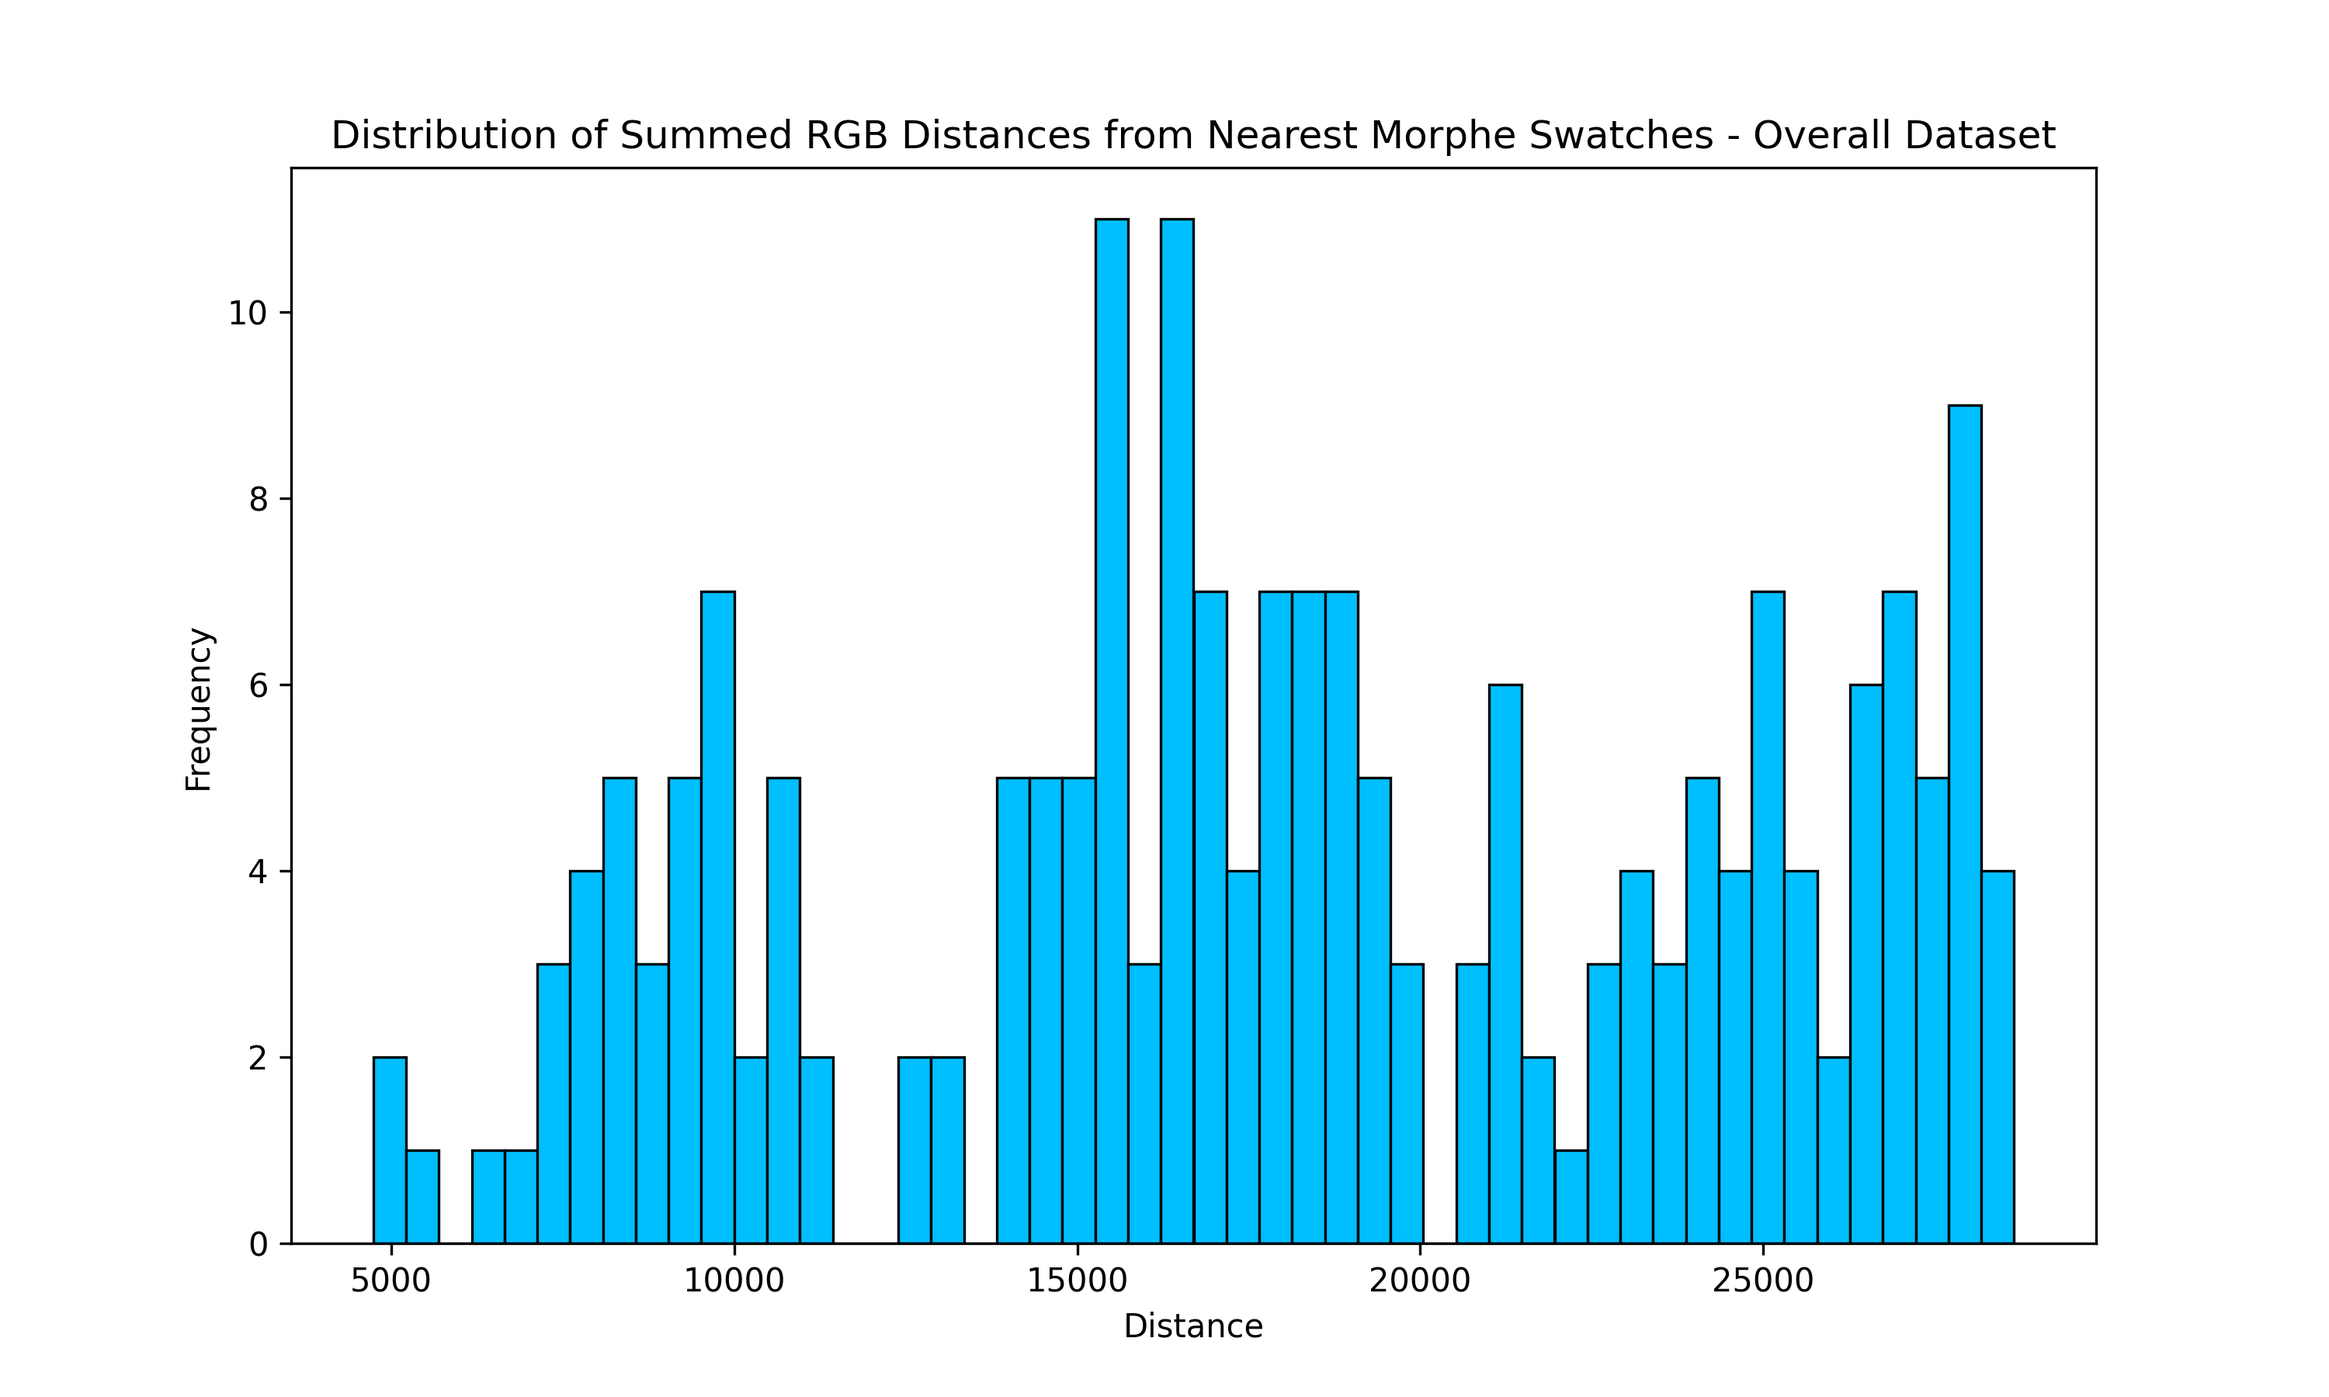
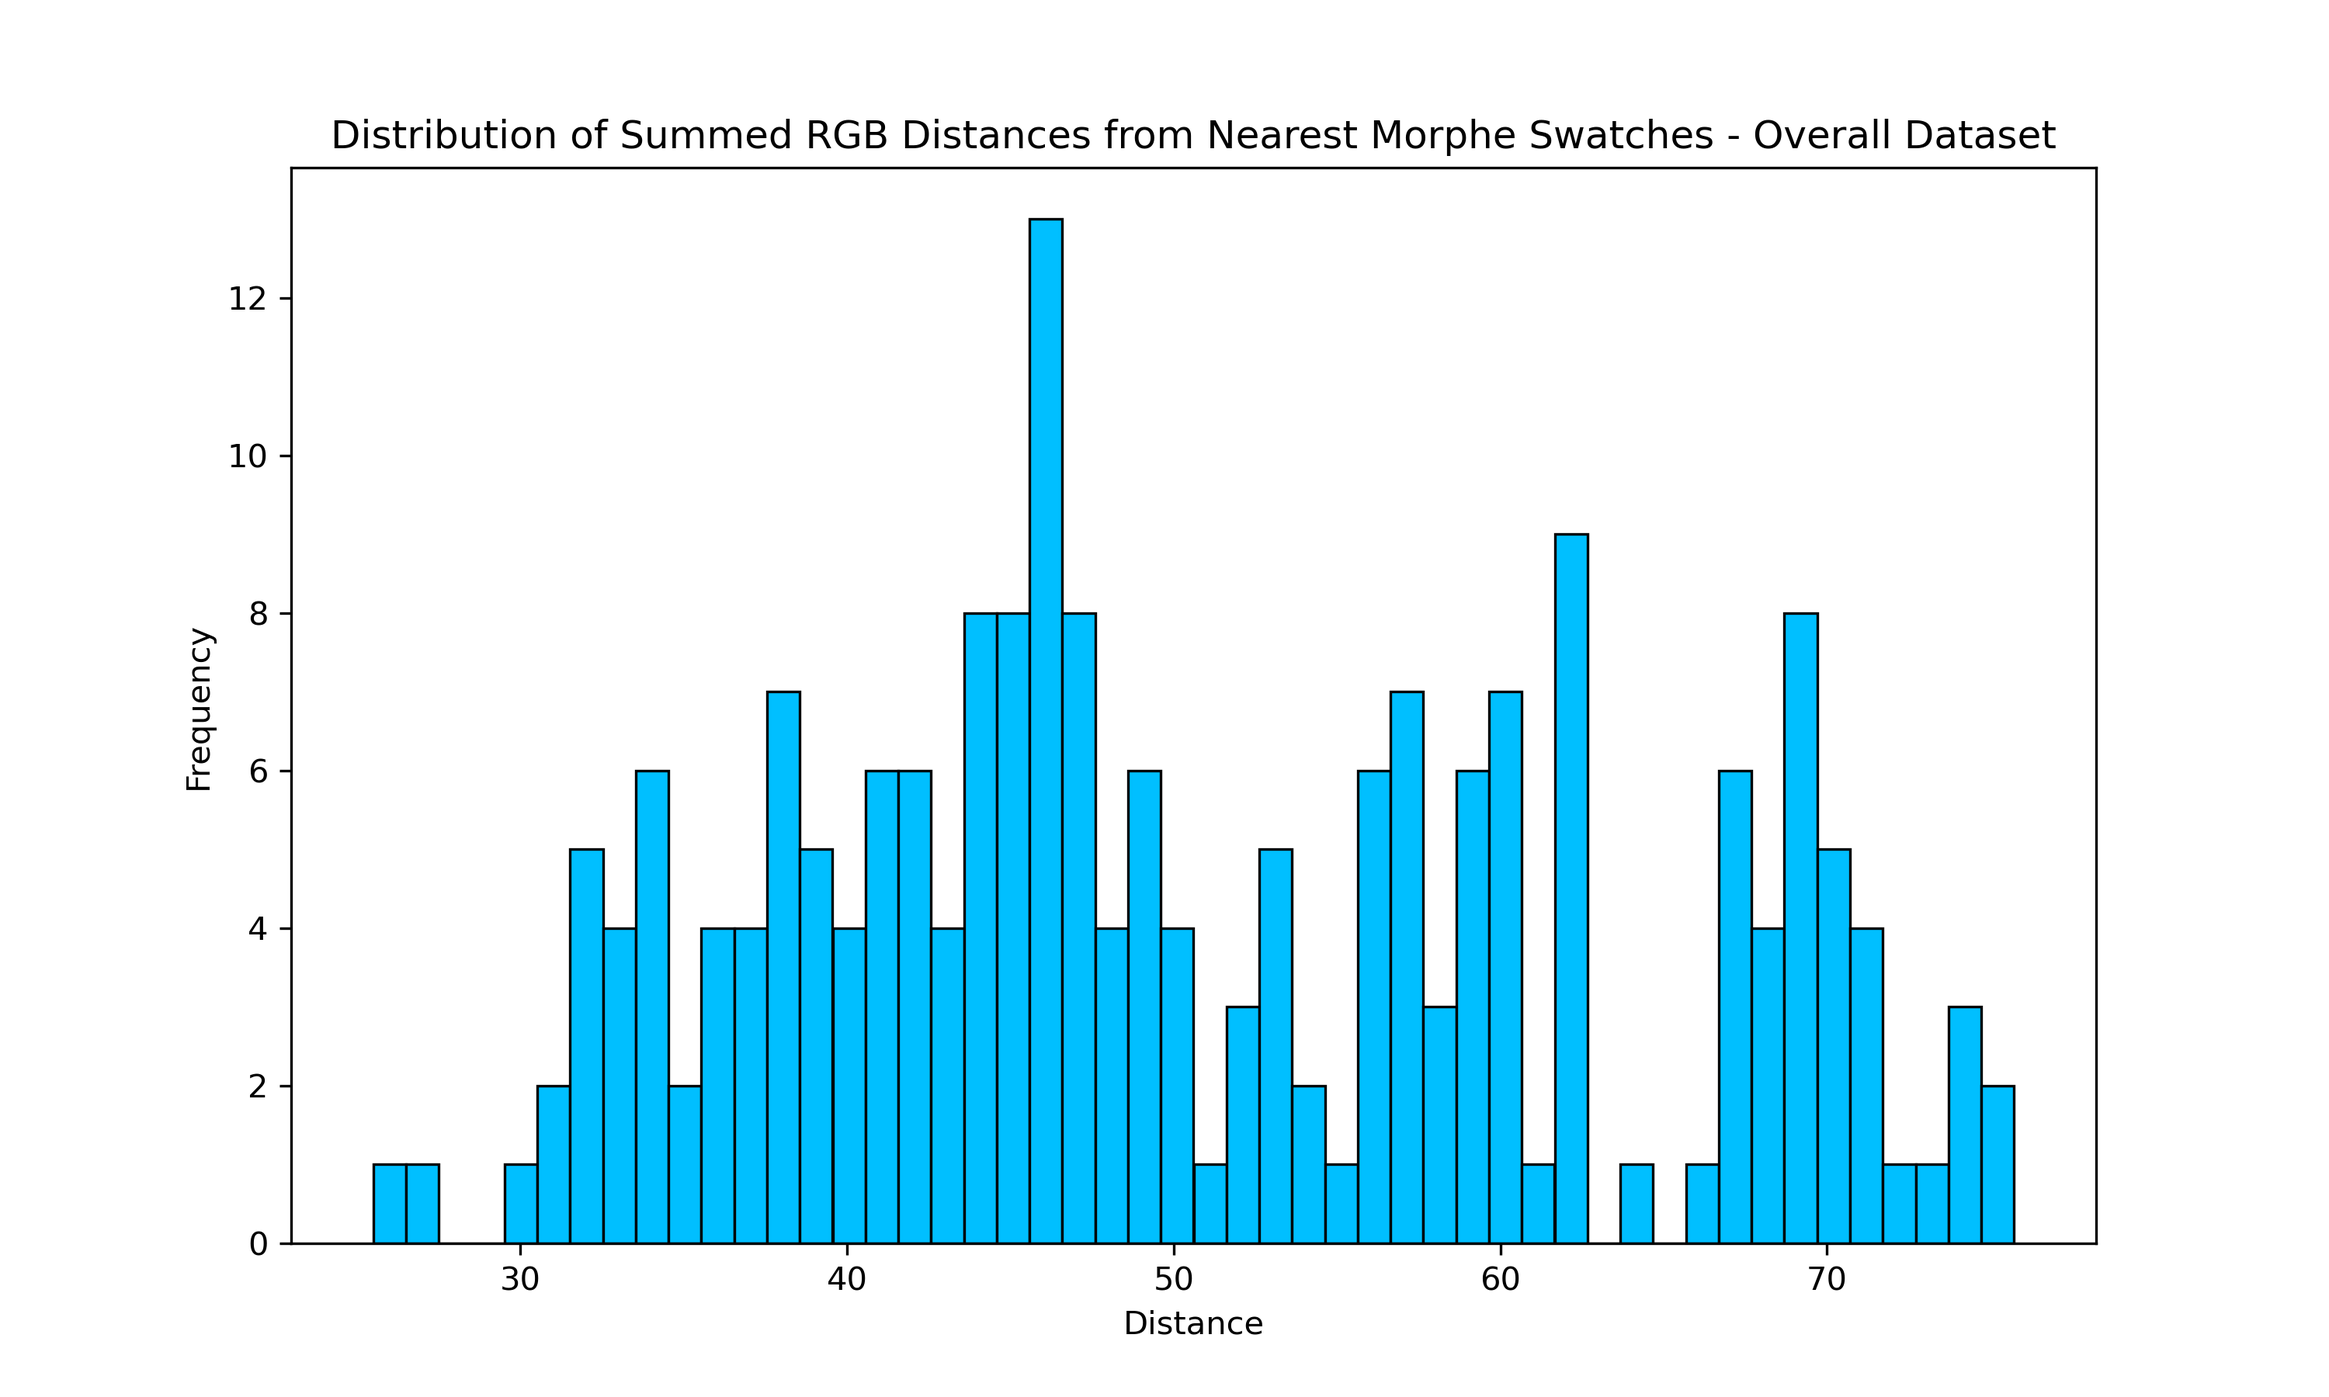
Updated code

diff --git a/fairness.py b/fairness.py
@@ -1,4 +1,3 @@
-import aif360.sklearn.metrics as metrics
 import pandas as pd
 import matplotlib.pyplot as plt
 import seaborn as sns
@@ -7,7 +6,7 @@ import random
 
 random.seed(39)
 
-def get_agreement(gtpath: str, morphepath: str, clusterpath: str) -> tuple[pd.DataFrame, pd.DataFrame, pd.DataFrame]:
+def get_agreement(gtpath: str, morphepath: str, clusterpath: str) -> tuple[pd.DataFrame, pd.DataFrame]:
     gt = pd.read_csv(gtpath).loc[:, ['Image Path', 'ground_truth1', 'ground_truth2', 'ground_truth3', 
                                      'ground_truth4', 'ground_truth5']]
     morphe = pd.read_csv(morphepath).loc[:, ['Image Path', 'Morphe1', 'Morphe2', 'Morphe3', 'Morphe4', 'Morphe5']]
@@ -20,22 +19,22 @@ def get_agreement(gtpath: str, morphepath: str, clusterpath: str) -> tuple[pd.Da
                                                                        x['Morphe2'], x['Morphe3'], x['Morphe4'], 
                                                                        x['Morphe5']]))), axis=1)
     gt_morphe.loc[:, 'accurate'] = gt_morphe.apply(lambda x: x['Agreement'] >= 3, axis=1).astype(int)
-    gt_morphe.loc[:, 'Skin Tone Category'] = gt_morphe.apply(lambda x: skintone_map[stats.mode(set([x['ground_truth1'].split('_')[0],
+    gt_morphe.loc[:, 'Skin Tone Category'] = gt_morphe.apply(lambda x: skintone_map[stats.mode([x['ground_truth1'].split('_')[0],
                                                                                        x['ground_truth2'].split('_')[0],
                                                                                        x['ground_truth3'].split('_')[0],
                                                                                        x['ground_truth4'].split('_')[0],
-                                                                                       x['ground_truth5'].split('_')[0]]))], axis=1)
+                                                                                       x['ground_truth5'].split('_')[0]])], axis=1)
     gt_cluster = gt.merge(cluster, on='Image Path', how='inner')
     gt_cluster.loc[:, 'Agreement'] = gt_cluster.apply(lambda x: len(set([x['ground_truth1'], x['ground_truth2'], 
                                                                          x['ground_truth3'], x['ground_truth4'], 
                                                                          x['ground_truth5']]).intersection(set([x['RJ1'], 
                                                                          x['RJ2'], x['RJ3'], x['RJ4'], x['RJ5']]))), axis=1)
     gt_cluster.loc[:, 'accurate'] = gt_cluster.apply(lambda x: x['Agreement'] >= 3, axis=1).astype(int)
-    gt_cluster.loc[:, 'Skin Tone Category'] = gt_cluster.apply(lambda x: skintone_map[stats.mode(set([x['ground_truth1'].split('_')[0], 
+    gt_cluster.loc[:, 'Skin Tone Category'] = gt_cluster.apply(lambda x: skintone_map[stats.mode([x['ground_truth1'].split('_')[0], 
                                                                                        x['ground_truth2'].split('_')[0],
                                                                                        x['ground_truth3'].split('_')[0],
                                                                                        x['ground_truth4'].split('_')[0],
-                                                                                       x['ground_truth5'].split('_')[0]]))], axis=1)
+                                                                                       x['ground_truth5'].split('_')[0]])], axis=1)
     grouped_morphe = gt_morphe.groupby('Skin Tone Category').agg({'accurate': 'mean'}).reset_index()
     grouped_cluster = gt_cluster.groupby('Skin Tone Category').agg({'accurate': 'mean'}).reset_index()
     return grouped_morphe, grouped_cluster
@@ -60,7 +59,7 @@ def plot_agreement(gt_morphe: pd.DataFrame, gt_cluster: pd.DataFrame) -> None:
     plt.savefig('./plots/agreement_cluster.png')
     plt.show()
     
-def fairness(grouped_morphe: pd.DataFrame, grouped_cluster: pd.DataFrame) -> tuple[float, float, float]:
+def fairness(grouped_morphe: pd.DataFrame, grouped_cluster: pd.DataFrame) -> None:
     parity_light_to_medium_morphe = abs(grouped_morphe.loc[grouped_morphe['Skin Tone Category'] == 'light', 'accurate'].values[0] -
                                    grouped_morphe.loc[grouped_morphe['Skin Tone Category'] == 'medium', 'accurate'].values[0])
     parity_medium_to_dark_morphe = abs(grouped_morphe.loc[grouped_morphe['Skin Tone Category'] == 'medium', 'accurate'].values[0] -
@@ -82,56 +81,56 @@ def fairness(grouped_morphe: pd.DataFrame, grouped_cluster: pd.DataFrame) -> tup
     print(f'Parity light to dark for our clustering model: {parity_light_to_dark_cluster}')
     print('---------------------------------------------------------------')
     disparate_impact_medium_over_light_morphe = grouped_morphe.loc[grouped_morphe['Skin Tone Category'] == 'medium', 'accurate'].values[0] / \
-                                              (grouped_morphe.loc[grouped_morphe['Skin Tone Category'] == 'light', 'accurate'].values[0] if \
+                                              grouped_morphe.loc[grouped_morphe['Skin Tone Category'] == 'light', 'accurate'].values[0] if \
                                                grouped_morphe.loc[grouped_morphe['Skin Tone Category'] == 'light', 'accurate'].values[0] != 0 \
-                                                else 0.0000000001)
+                                                else float('inf')
     disparate_impact_dark_over_medium_morphe = grouped_morphe.loc[grouped_morphe['Skin Tone Category'] == 'dark', 'accurate'].values[0] / \
-                                                (grouped_morphe.loc[grouped_morphe['Skin Tone Category'] == 'medium', 'accurate'].values[0] if \
+                                                grouped_morphe.loc[grouped_morphe['Skin Tone Category'] == 'medium', 'accurate'].values[0] if \
                                                   grouped_morphe.loc[grouped_morphe['Skin Tone Category'] == 'medium', 'accurate'].values[0] != 0 \
-                                                    else 0.0000000001)
+                                                    else float('inf')
     disparate_impact_dark_over_light_morphe = grouped_morphe.loc[grouped_morphe['Skin Tone Category'] == 'dark', 'accurate'].values[0] / \
-                                                (grouped_morphe.loc[grouped_morphe['Skin Tone Category'] == 'light', 'accurate'].values[0] if \
+                                                grouped_morphe.loc[grouped_morphe['Skin Tone Category'] == 'light', 'accurate'].values[0] if \
                                                  grouped_morphe.loc[grouped_morphe['Skin Tone Category'] == 'light', 'accurate'].values[0] != 0 \
-                                                    else 0.0000000001)
+                                                    else float('inf')
     
     disparate_impact_medium_over_light_cluster = grouped_cluster.loc[grouped_cluster['Skin Tone Category'] == 'medium', 'accurate'].values[0] / \
-                                                (grouped_cluster.loc[grouped_cluster['Skin Tone Category'] == 'light', 'accurate'].values[0] if \
+                                                grouped_cluster.loc[grouped_cluster['Skin Tone Category'] == 'light', 'accurate'].values[0] if \
                                                  grouped_cluster.loc[grouped_cluster['Skin Tone Category'] == 'light', 'accurate'].values[0] != 0 \
-                                                    else 0.0000000001)
+                                                    else float('inf')
     disparate_impact_dark_over_medium_cluster = grouped_cluster.loc[grouped_cluster['Skin Tone Category'] == 'dark', 'accurate'].values[0] / \
-                                                (grouped_cluster.loc[grouped_cluster['Skin Tone Category'] == 'medium', 'accurate'].values[0] if \
+                                                grouped_cluster.loc[grouped_cluster['Skin Tone Category'] == 'medium', 'accurate'].values[0] if \
                                                  grouped_cluster.loc[grouped_cluster['Skin Tone Category'] == 'medium', 'accurate'].values[0] != 0 \
-                                                    else 0.0000000001)
+                                                    else float('inf')
     disparate_impact_dark_over_light_cluster = grouped_cluster.loc[grouped_cluster['Skin Tone Category'] == 'dark', 'accurate'].values[0] / \
-                                                (grouped_cluster.loc[grouped_cluster['Skin Tone Category'] == 'light', 'accurate'].values[0] if \
+                                                grouped_cluster.loc[grouped_cluster['Skin Tone Category'] == 'light', 'accurate'].values[0] if \
                                                  grouped_cluster.loc[grouped_cluster['Skin Tone Category'] == 'light', 'accurate'].values[0] != 0 \
-                                                    else 0.0000000001)
+                                                    else float('inf')
     
     disparate_impact_light_over_medium_morphe = grouped_morphe.loc[grouped_morphe['Skin Tone Category'] == 'light', 'accurate'].values[0] / \
-                                              (grouped_morphe.loc[grouped_morphe['Skin Tone Category'] == 'medium', 'accurate'].values[0] if \
+                                              grouped_morphe.loc[grouped_morphe['Skin Tone Category'] == 'medium', 'accurate'].values[0] if \
                                                grouped_morphe.loc[grouped_morphe['Skin Tone Category'] == 'medium', 'accurate'].values[0] != 0 \
-                                                else 0.0000000001)
+                                                else float('inf')
     disparate_impact_medium_over_dark_morphe = grouped_morphe.loc[grouped_morphe['Skin Tone Category'] == 'medium', 'accurate'].values[0] / \
-                                                (grouped_morphe.loc[grouped_morphe['Skin Tone Category'] == 'dark', 'accurate'].values[0] if \
+                                                grouped_morphe.loc[grouped_morphe['Skin Tone Category'] == 'dark', 'accurate'].values[0] if \
                                                  grouped_morphe.loc[grouped_morphe['Skin Tone Category'] == 'dark', 'accurate'].values[0] != 0 \
-                                                    else 0.0000000001)
+                                                    else float('inf')
     disparate_impact_light_over_dark_morphe = grouped_morphe.loc[grouped_morphe['Skin Tone Category'] == 'light', 'accurate'].values[0] / \
-                                                (grouped_morphe.loc[grouped_morphe['Skin Tone Category'] == 'dark', 'accurate'].values[0] if \
+                                                grouped_morphe.loc[grouped_morphe['Skin Tone Category'] == 'dark', 'accurate'].values[0] if \
                                                  grouped_morphe.loc[grouped_morphe['Skin Tone Category'] == 'dark', 'accurate'].values[0] != 0 \
-                                                    else 0.0000000001)
+                                                    else float('inf')
     
     disparate_impact_light_over_medium_cluster = grouped_cluster.loc[grouped_cluster['Skin Tone Category'] == 'light', 'accurate'].values[0] / \
-                                              (grouped_cluster.loc[grouped_cluster['Skin Tone Category'] == 'medium', 'accurate'].values[0] if \
+                                              grouped_cluster.loc[grouped_cluster['Skin Tone Category'] == 'medium', 'accurate'].values[0] if \
                                                grouped_cluster.loc[grouped_cluster['Skin Tone Category'] == 'medium', 'accurate'].values[0] != 0 \
-                                                else 0.0000000001)
+                                                else float('inf')
     disparate_impact_medium_over_dark_cluster = grouped_cluster.loc[grouped_cluster['Skin Tone Category'] == 'medium', 'accurate'].values[0] / \
-                                                (grouped_cluster.loc[grouped_cluster['Skin Tone Category'] == 'dark', 'accurate'].values[0] if \
+                                                grouped_cluster.loc[grouped_cluster['Skin Tone Category'] == 'dark', 'accurate'].values[0] if \
                                                  grouped_cluster.loc[grouped_cluster['Skin Tone Category'] == 'dark', 'accurate'].values[0] != 0 \
-                                                    else 0.0000000001)
+                                                    else float('inf')
     disparate_impact_light_over_dark_cluster = grouped_cluster.loc[grouped_cluster['Skin Tone Category'] == 'light', 'accurate'].values[0] / \
-                                                (grouped_cluster.loc[grouped_cluster['Skin Tone Category'] == 'dark', 'accurate'].values[0] if \
+                                                grouped_cluster.loc[grouped_cluster['Skin Tone Category'] == 'dark', 'accurate'].values[0] if \
                                                  grouped_cluster.loc[grouped_cluster['Skin Tone Category'] == 'dark', 'accurate'].values[0] != 0 \
-                                                    else 0.0000000001)
+                                                    else float('inf')
 
     print(f'Disparate impact medium over light for Morphe: {disparate_impact_medium_over_light_morphe}')
     print(f'Disparate impact dark over medium for Morphe: {disparate_impact_dark_over_medium_morphe}')
@@ -149,10 +148,9 @@ def fairness(grouped_morphe: pd.DataFrame, grouped_cluster: pd.DataFrame) -> tup
     print(f'Disparate impact medium over dark for our clustering model: {disparate_impact_medium_over_dark_cluster}')
     print(f'Disparate impact light over dark for our clustering model: {disparate_impact_light_over_dark_cluster}')
     print('---------------------------------------------------------------')
-    return 
     
 def main():
-    gtpath = './intermediate_files/ground_truth.csv'
+    gtpath = './intermediate_files/ground_truth2.csv'
     morphepath = './intermediate_files/closest_images_overall.csv'
     clusterpath = './intermediate_files/closest_images_overall_mod.csv'
     gt_morphe, gt_cluster = get_agreement(gtpath, morphepath, clusterpath)

diff --git a/morphe.py b/morphe.py
@@ -18,7 +18,7 @@ def get_closest_images(representative_data: pd.DataFrame, morphe_data: pd.DataFr
         distances = {}
         for _, m_row in morphe_data.iterrows():
             morphe_rgb = np.array([m_row['R'], m_row['G'], m_row['B']])
-            distance = np.sum(np.abs(np.square(representative_rgb) - np.square(morphe_rgb)))
+            distance = np.sqrt(np.abs(np.sum(np.square(representative_rgb - morphe_rgb))))
             distances[(row['Image Path'], m_row['tone_name'])] = distance
         sorted_distances = sorted(distances.items(), key=lambda x: x[1])
         n_closest = sorted_distances[:n]
